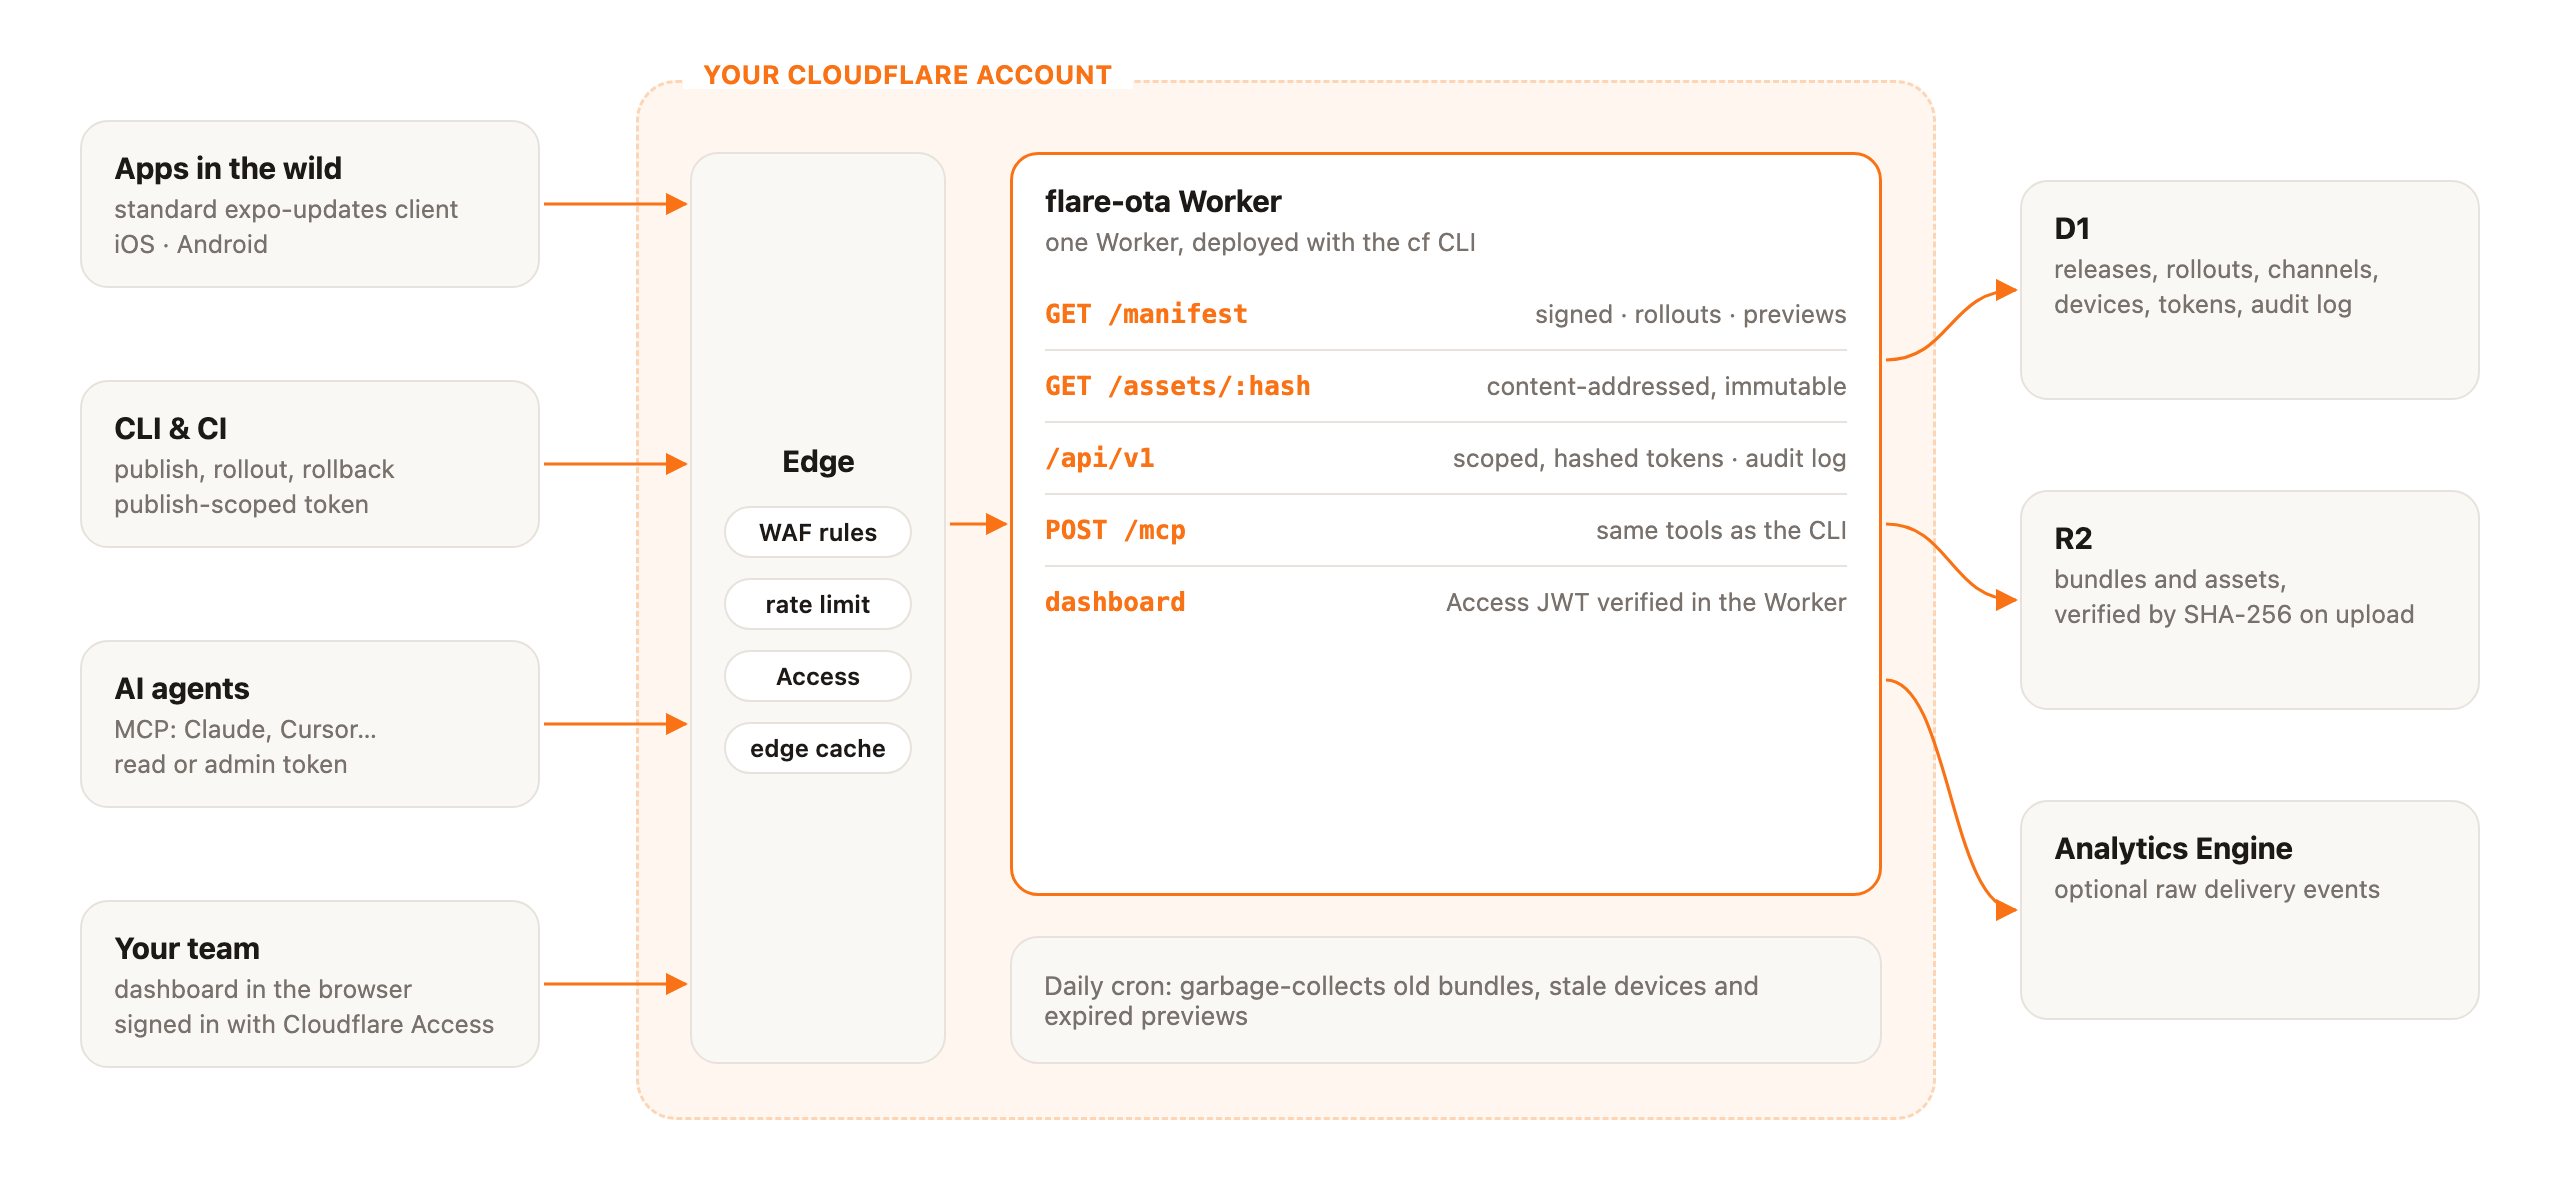
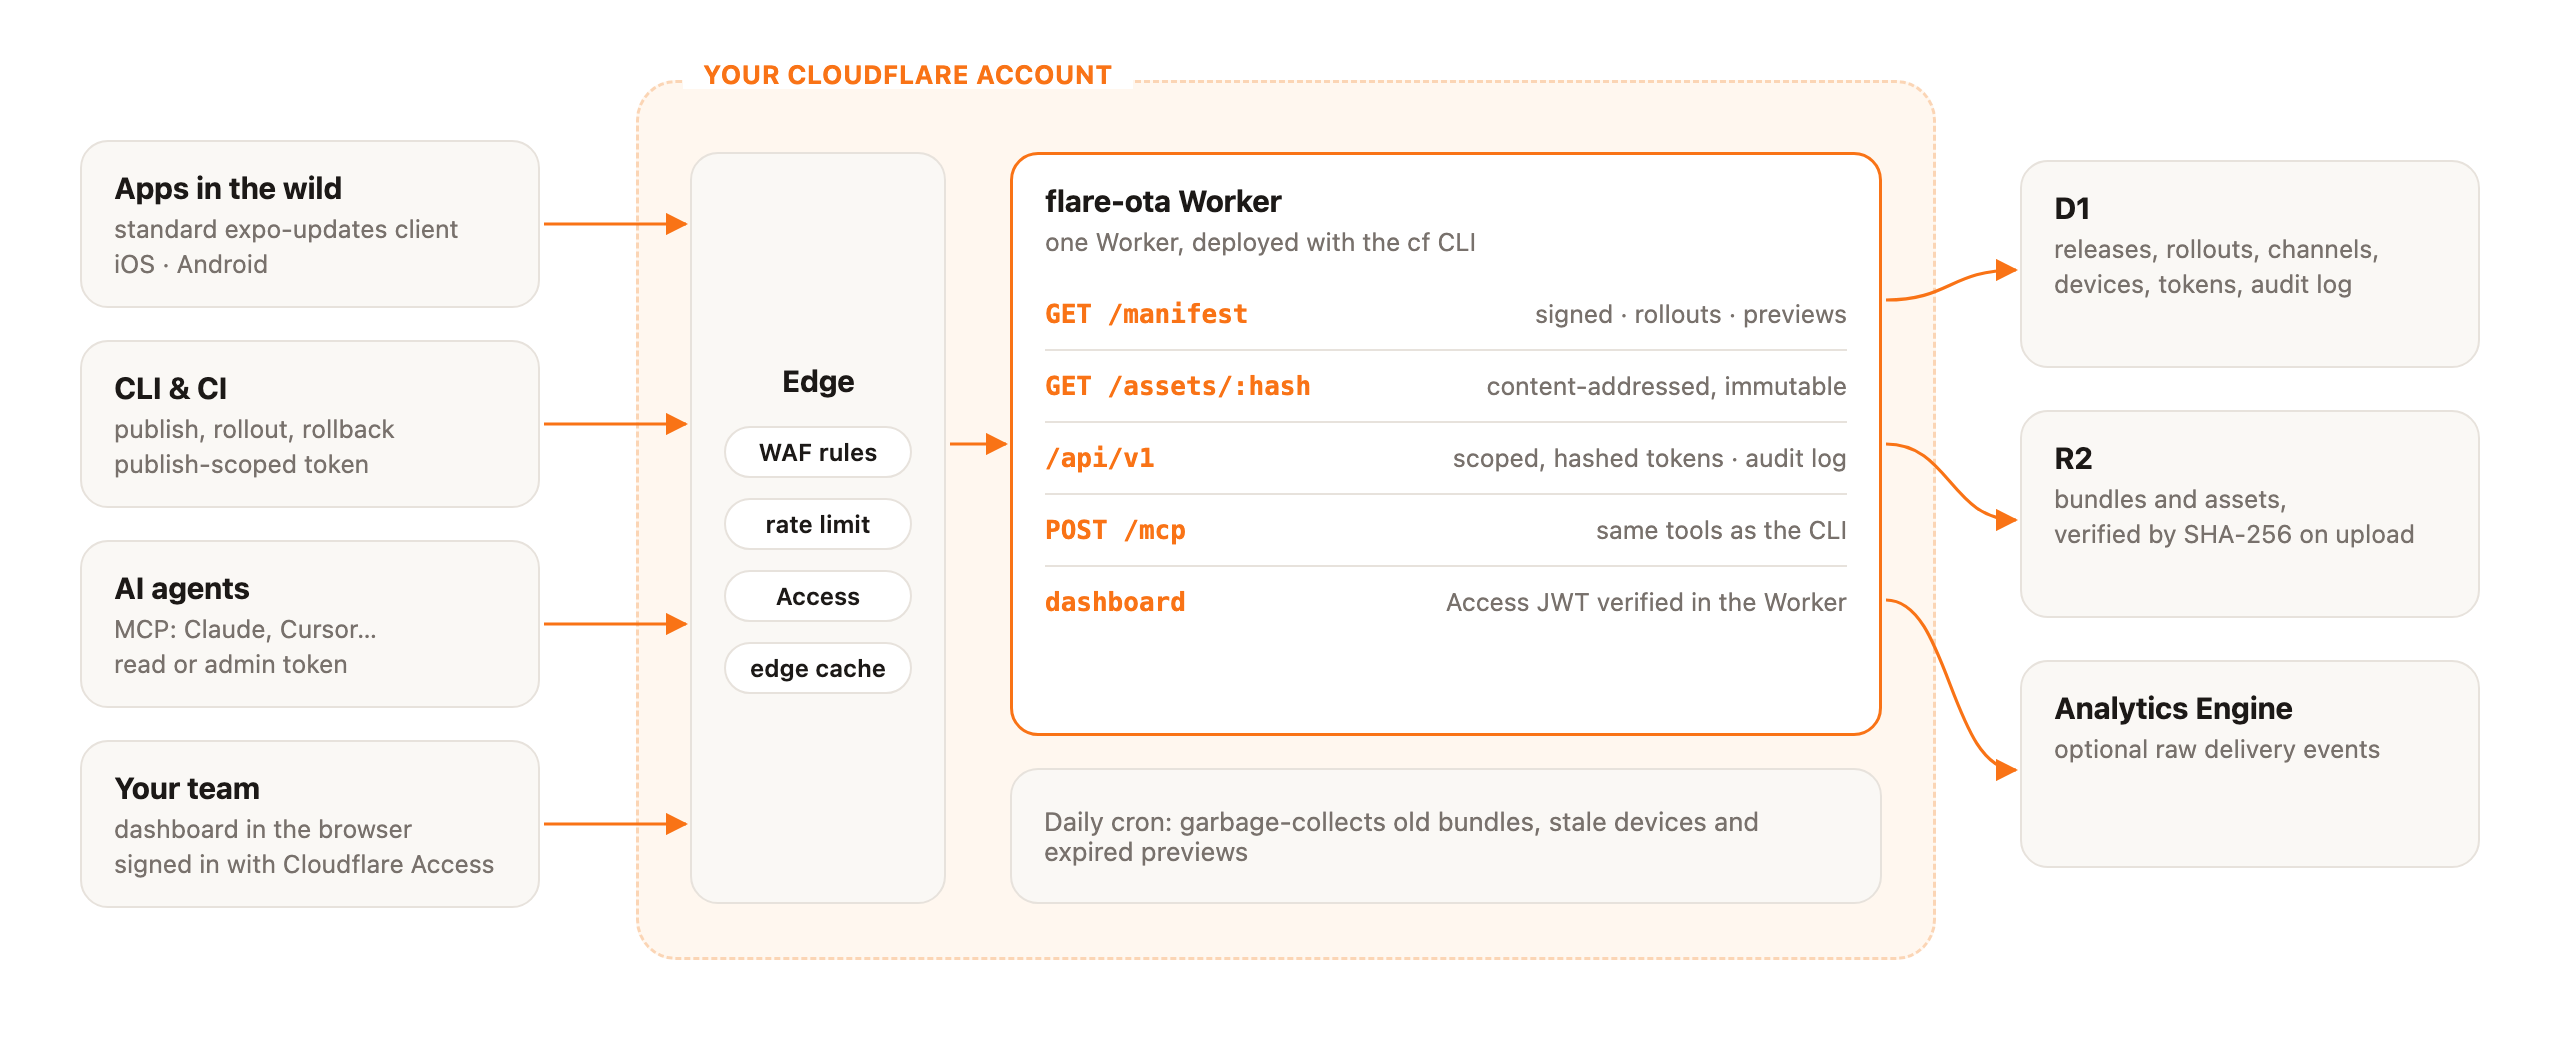
docs: README table headers, shorter quick-start lines, tighter architecture diagram

diff --git a/docs/assets/src/architecture.html b/docs/assets/src/architecture.html
@@ -2,28 +2,28 @@
 *{margin:0;box-sizing:border-box}
 :root{--bg:#ffffff;--fg:#1c1917;--muted:#78716c;--line:#e7e2dc;--box:#faf8f5;--cf:#fff7ef;--cfline:#fbd5b5;--accent:#f97316;--worker:#ffffff}
 body.dark{--bg:#0d1117;--fg:#f0ebe5;--muted:#9a938c;--line:#2d2925;--box:#16130f;--cf:#1a120b;--cfline:#5a3416;--accent:#fb923c;--worker:#120f0c}
-body{width:1280px;height:600px;background:var(--bg);color:var(--fg);font-family:Inter,-apple-system,system-ui,sans-serif;position:relative;overflow:hidden}
+body{width:1280px;height:520px;background:var(--bg);color:var(--fg);font-family:Inter,-apple-system,system-ui,sans-serif;position:relative;overflow:hidden}
 .box{position:absolute;border:1px solid var(--line);background:var(--box);border-radius:14px;padding:14px 16px}
 .box b{display:block;font-size:15px;letter-spacing:-.01em}.box small{display:block;color:var(--muted);font-size:12.5px;margin-top:3px;line-height:1.4}
 .client{left:40px;width:230px;height:84px}
-.cf{position:absolute;left:318px;top:40px;width:650px;height:520px;border:1.5px dashed var(--cfline);background:var(--cf);border-radius:20px}
+.cf{position:absolute;left:318px;top:40px;width:650px;height:440px;border:1.5px dashed var(--cfline);background:var(--cf);border-radius:20px}
 .cf>.label{position:absolute;top:-12px;left:22px;background:var(--bg);padding:0 10px;font-size:13px;font-weight:700;color:var(--accent);letter-spacing:.02em}
-.edge{left:345px;top:76px;width:128px;height:456px;display:flex;flex-direction:column;justify-content:center;gap:10px;text-align:center}
+.edge{left:345px;top:76px;width:128px;height:376px;display:flex;flex-direction:column;justify-content:center;gap:10px;text-align:center}
 .edge b{margin-bottom:4px}.edge span{font-size:12px;font-weight:600;padding:5px 8px;border-radius:999px;background:var(--bg);border:1px solid var(--line)}
-.worker{left:505px;top:76px;width:436px;height:372px;background:var(--worker);border-color:var(--accent);border-width:1.5px}
+.worker{left:505px;top:76px;width:436px;height:292px;background:var(--worker);border-color:var(--accent);border-width:1.5px}
 .route{display:flex;justify-content:space-between;align-items:baseline;padding:10px 0;border-top:1px solid var(--line);font-size:13.5px}
 .route:first-of-type{border-top:0;margin-top:10px}
 .route code{font:600 13px "SF Mono",ui-monospace,Menlo,monospace;color:var(--accent)}.route span{color:var(--muted);font-size:12.5px}
-.cron{left:505px;top:468px;width:436px;height:64px;display:flex;align-items:center;font-size:13px;color:var(--muted)}
-.store{left:1010px;width:230px;height:110px}
+.cron{left:505px;top:384px;width:436px;height:68px;display:flex;align-items:center;font-size:13px;color:var(--muted)}
+.store{left:1010px;width:230px;height:104px}
 svg{position:absolute;inset:0;pointer-events:none}
 .t{font-size:11.5px;fill:var(--muted);font-family:Inter,-apple-system,system-ui,sans-serif}
 </style></head><body>
 <script>if (location.hash === "#dark") document.body.classList.add("dark")</script>
-<div class="box client" style="top:60px"><b>Apps in the wild</b><small>standard expo-updates client<br>iOS · Android</small></div>
-<div class="box client" style="top:190px"><b>CLI &amp; CI</b><small>publish, rollout, rollback<br>publish-scoped token</small></div>
-<div class="box client" style="top:320px"><b>AI agents</b><small>MCP: Claude, Cursor…<br>read or admin token</small></div>
-<div class="box client" style="top:450px"><b>Your team</b><small>dashboard in the browser<br>signed in with Cloudflare Access</small></div>
+<div class="box client" style="top:70px"><b>Apps in the wild</b><small>standard expo-updates client<br>iOS · Android</small></div>
+<div class="box client" style="top:170px"><b>CLI &amp; CI</b><small>publish, rollout, rollback<br>publish-scoped token</small></div>
+<div class="box client" style="top:270px"><b>AI agents</b><small>MCP: Claude, Cursor…<br>read or admin token</small></div>
+<div class="box client" style="top:370px"><b>Your team</b><small>dashboard in the browser<br>signed in with Cloudflare Access</small></div>
 
 <div class="cf"><span class="label">YOUR CLOUDFLARE ACCOUNT</span></div>
 <div class="box edge"><b>Edge</b><span>WAF rules</span><span>rate limit</span><span>Access</span><span>edge cache</span></div>
@@ -35,16 +35,16 @@ svg{position:absolute;inset:0;pointer-events:none}
 <div class="route"><code>dashboard</code><span>Access JWT verified in the Worker</span></div></div>
 <div class="box cron">Daily cron: garbage-collects old bundles, stale devices and expired previews</div>
 
-<div class="box store" style="top:90px"><b>D1</b><small>releases, rollouts, channels,<br>devices, tokens, audit log</small></div>
-<div class="box store" style="top:245px"><b>R2</b><small>bundles and assets,<br>verified by SHA-256 on upload</small></div>
-<div class="box store" style="top:400px"><b>Analytics Engine</b><small>optional raw delivery events</small></div>
+<div class="box store" style="top:80px"><b>D1</b><small>releases, rollouts, channels,<br>devices, tokens, audit log</small></div>
+<div class="box store" style="top:205px"><b>R2</b><small>bundles and assets,<br>verified by SHA-256 on upload</small></div>
+<div class="box store" style="top:330px"><b>Analytics Engine</b><small>optional raw delivery events</small></div>
 
-<svg viewBox="0 0 1280 600"><defs><marker id="a" viewBox="0 0 10 10" refX="9" refY="5" markerWidth="7" markerHeight="7" orient="auto"><path d="M0 0L10 5L0 10z" fill="var(--accent)"/></marker></defs>
+<svg viewBox="0 0 1280 520"><defs><marker id="a" viewBox="0 0 10 10" refX="9" refY="5" markerWidth="7" markerHeight="7" orient="auto"><path d="M0 0L10 5L0 10z" fill="var(--accent)"/></marker></defs>
 <g stroke="var(--accent)" stroke-width="1.6" fill="none" marker-end="url(#a)">
-<path d="M272 102 L343 102"/><path d="M272 232 L343 232"/><path d="M272 362 L343 362"/><path d="M272 492 L343 492"/>
-<path d="M475 262 L503 262"/>
-<path d="M943 180 C 975 180, 975 145, 1008 145"/>
-<path d="M943 262 C 975 262, 975 300, 1008 300"/>
-<path d="M943 340 C 975 340, 975 455, 1008 455"/>
+<path d="M272 112 L343 112"/><path d="M272 212 L343 212"/><path d="M272 312 L343 312"/><path d="M272 412 L343 412"/>
+<path d="M475 222 L503 222"/>
+<path d="M943 150 C 975 150, 975 135, 1008 135"/>
+<path d="M943 222 C 975 222, 975 260, 1008 260"/>
+<path d="M943 300 C 975 300, 975 385, 1008 385"/>
 </g></svg>
 </body></html>

diff --git a/README.md b/README.md
@@ -65,7 +65,7 @@ Worker verifies itself, an audit log, and WAF rules.
 
 ## Features
 
-| | |
+| Capability | What you get |
 |---|---|
 | **Expo Updates protocol v1** | Works with `expo-updates` as shipped. Code signing required, fingerprint runtime versions. |
 | **Channels & branches** | Point `production` and `staging` at any branch; promote a tested release in one call. |
@@ -111,9 +111,10 @@ Then build a release binary once: the update URL and certificate are native sett
 
 ```sh
 export FLARE_OTA_URL=https://ota.example.com FLARE_OTA_TOKEN=fota_…
-npx flare-ota doctor                                    # config, server, token, signature
+npx flare-ota doctor                     # config, server, token, signature
 npx flare-ota publish --branch production -m "Fix checkout" --rollout 10
-npx flare-ota rollout <groupId> 100                     # or: npx flare-ota rollback --branch production
+npx flare-ota rollout <groupId> 100      # all devices
+npx flare-ota rollback --branch production   # changed your mind
 ```
 
 Full walkthrough in [docs/quick-start.md](docs/quick-start.md).
@@ -146,7 +147,7 @@ the update path in their own account, open code, and costs that track Cloudflare
 
 ## Documentation
 
-| | |
+| Guide | Covers |
 |---|---|
 | [Quick start](docs/quick-start.md) | Deploy the server, connect an app, publish, roll back |
 | [Expo app integration](docs/expo-app.md) | app.json, certificates, staging builds, preview links, gotchas |
